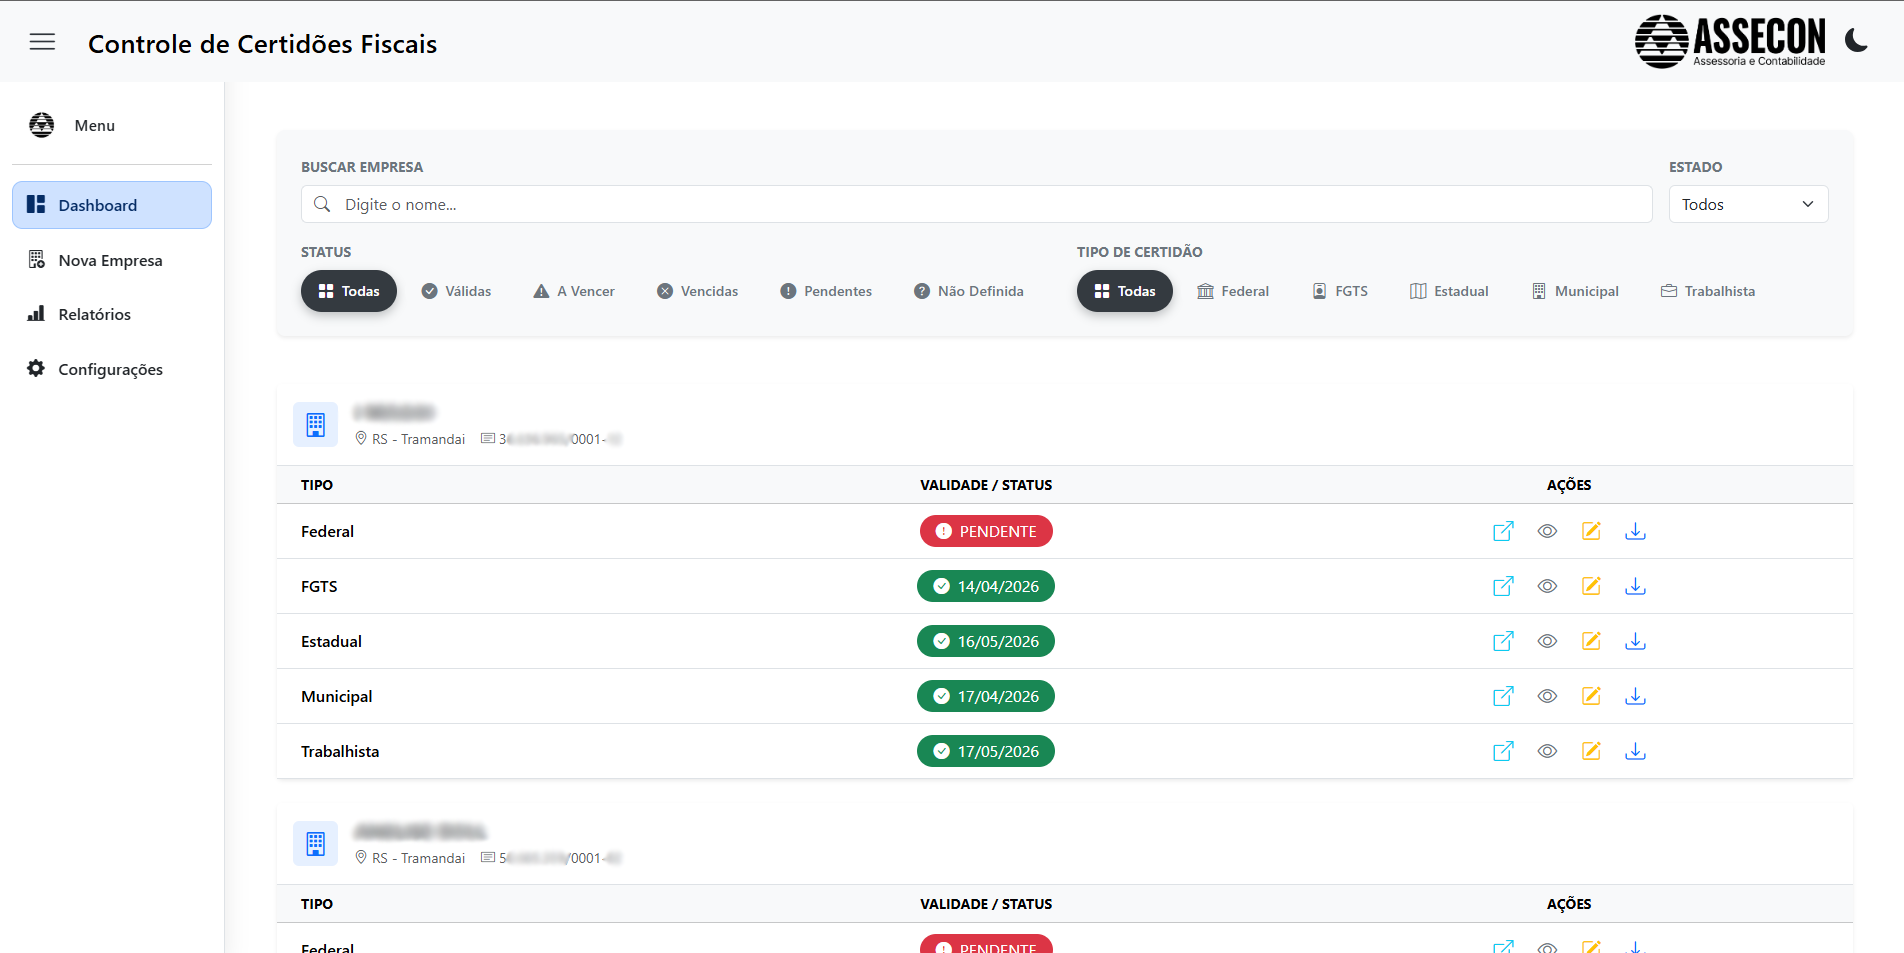
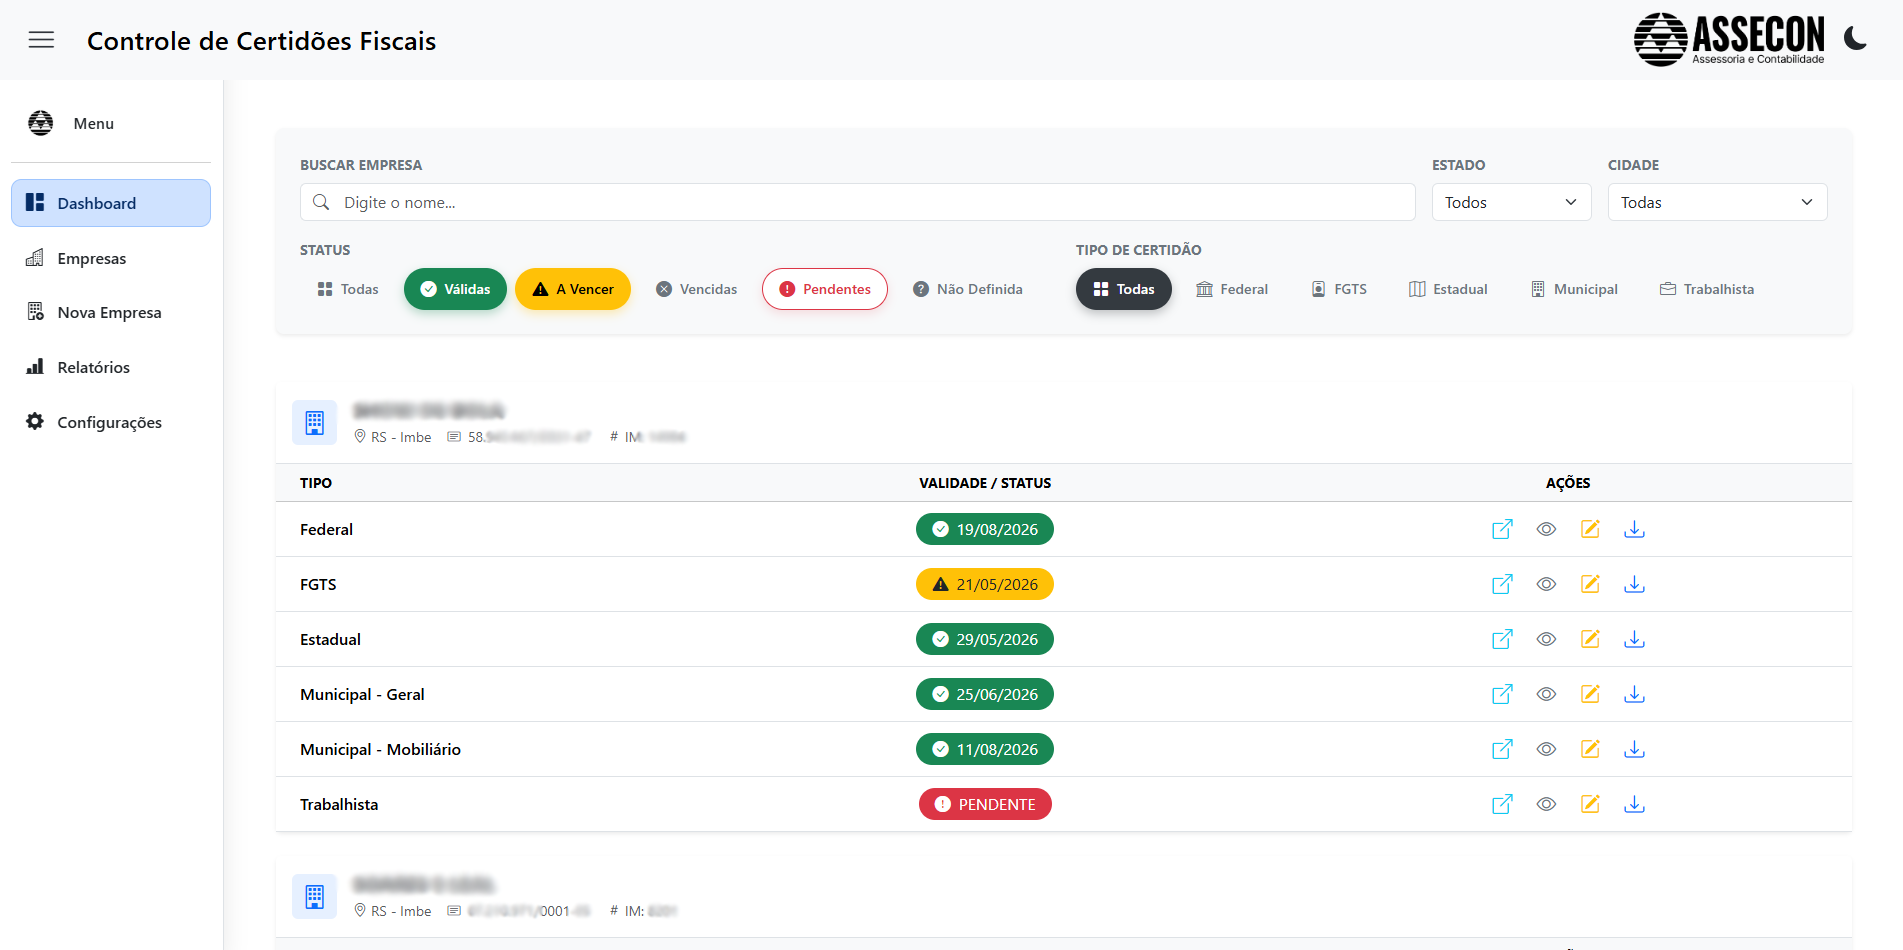
- atualizar readme - adicionar nova image dashboard

diff --git a/README.md b/README.md
@@ -60,9 +60,10 @@ O sistema combina:
 - Filtros por status e busca por nome em tempo real.
 - Status visual de certidões:
   - Verde: válida
-  - Amarelo: a vencer
+  - Amarelo: a vencer (limite configurável)
   - Vermelho: vencida ou pendente
   - Cinza: sem data definida
+- Tela de Empresas com listagem, filtros, edição e remoção com confirmação.
 - Sidebar responsiva com estado persistente.
 - Tema claro/escuro com persistência local.
 
@@ -174,7 +175,8 @@ Acesso local: http://localhost:5000
    - use Emitir para automações suportadas,
    - use Abrir Site quando o fluxo for assistido,
    - use Visualizar para abrir PDF salvo.
-4. Para lotes:
+4. Acesse `/empresas` para gerenciar cadastro, edição e remoção com confirmação.
+5. Para lotes:
    - FGTS: fluxo de lote quando houver mais de 1 item elegível.
    - Estadual RS: lote com controles de pausar, retomar e parar.
 
@@ -202,6 +204,10 @@ O caminho base pode ser configurado via variável `CAMINHO_REDE`. Ajuste conform
 - As respostas HTTP incluem o header `X-Request-Id` para correlacionar logs e requisições.
 - O check de caminho de rede também informa leitura e escrita (útil para diagnosticar permissões).
 - Para reduzir ruído local, logs HTTP de estáticos/polling são filtrados e o log padrão fica em nível `WARNING`.
+
+### Limite de "a vencer"
+
+Na tela de Configurações, é possível ajustar o limite de dias para uma certidão ficar "a vencer" (1 a 30 dias). O valor é global e afeta dashboard, relatórios e lotes.
 
 ### Municípios
 
@@ -246,6 +252,9 @@ app/
     base.html
     dashboard.html
     nova_empresa.html
+    empresas.html
+    empresa_detalhe.html
+    empresa_remover_confirm.html
     relatorios.html
     configuracoes.html
 ```